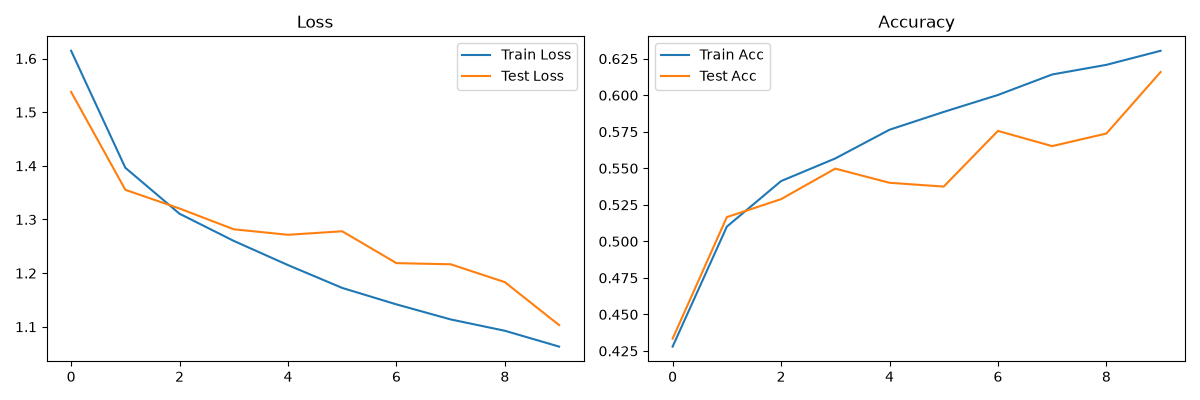
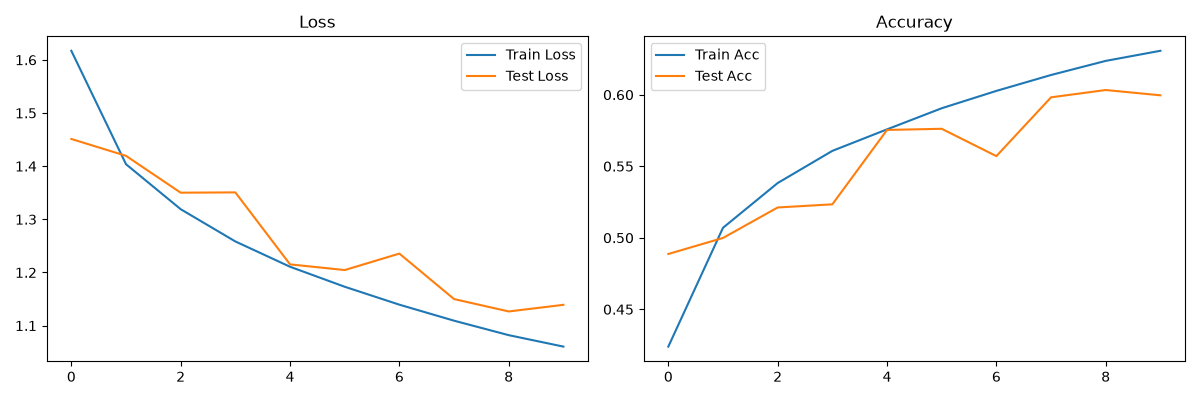
feat

diff --git a/homework/models/custom_layers.py b/homework/models/custom_layers.py
@@ -192,19 +192,15 @@ class AttentionCNN(nn.Module):
         super().__init__()
         self.stem = nn.Sequential(
             nn.Conv2d(3, 64, 3, padding=1, bias=False),
-            nn.BatchNorm2d(64), nn.ReLU(), nn.MaxPool2d(2),
-        )
+            nn.BatchNorm2d(64), nn.ReLU(), nn.MaxPool2d(2))
         self.sa = SpatialAttention()
-        self.layer2 = nn.Sequential(
+        self.conv2 = nn.Sequential(
             nn.Conv2d(64, 128, 3, padding=1, bias=False),
-            nn.BatchNorm2d(128), nn.ReLU(), nn.MaxPool2d(2),
-        )
-        self.classifier = nn.Sequential(
-            AdaptivePool(1), nn.Flatten(), nn.Linear(128, num_classes)
-        )
+            nn.BatchNorm2d(128), nn.ReLU(), nn.MaxPool2d(2))
+        self.classifier = nn.Sequential(AdaptivePool(3, alpha=0.6), nn.Flatten(), nn.Linear(512, 128))
 
     def forward(self, x):
         x = self.stem(x)
         x = self.sa(x)
-        x = self.layer2(x)
+        x = self.conv2(x)
         return self.classifier(x)

diff --git a/homework/homework_cnn_architecture_analysis.py b/homework/homework_cnn_architecture_analysis.py
@@ -57,9 +57,9 @@ def compare_depth():
         criterion(m(x), y).backward()
 
         norms = {}
-        for n, param in m.named_parameters():
+        for i, param in m.named_parameters():
             if param.grad is not None:
-                norms[n] = param.grad.norm().item()
+                norms[i] = param.grad.norm().item()
 
         plot_gradient(norms, f'plots/cnn_architecture/{n}_gradient.png')
         plot_feature_maps(m.to(device), img.to(device), f'plots/cnn_architecture/{n}_feature_maps.png', )

diff --git a/homework/homework_custom_layers_experiments.py b/homework/homework_custom_layers_experiments.py
@@ -25,7 +25,7 @@ def compare_custom_layers():
     for n, m in models.items():
         results[n] = run_model(n, m, train_loader, test_loader, device, "plots/custom_layers")
 
-    compare_models(results, save_path="plots/custom_layers/layers_compare.png")
+    compare_models(results, save_path="plots/custom_layers/customlayers_compare.png")
     save_results(results, "results/custom_layers/layers.json")
 
 
@@ -48,4 +48,4 @@ if __name__ == '__main__':
     print(f"Using device: {device}\n")
 
     compare_custom_layers()
-    compare_residual_blocks()
+    #compare_residual_blocks()